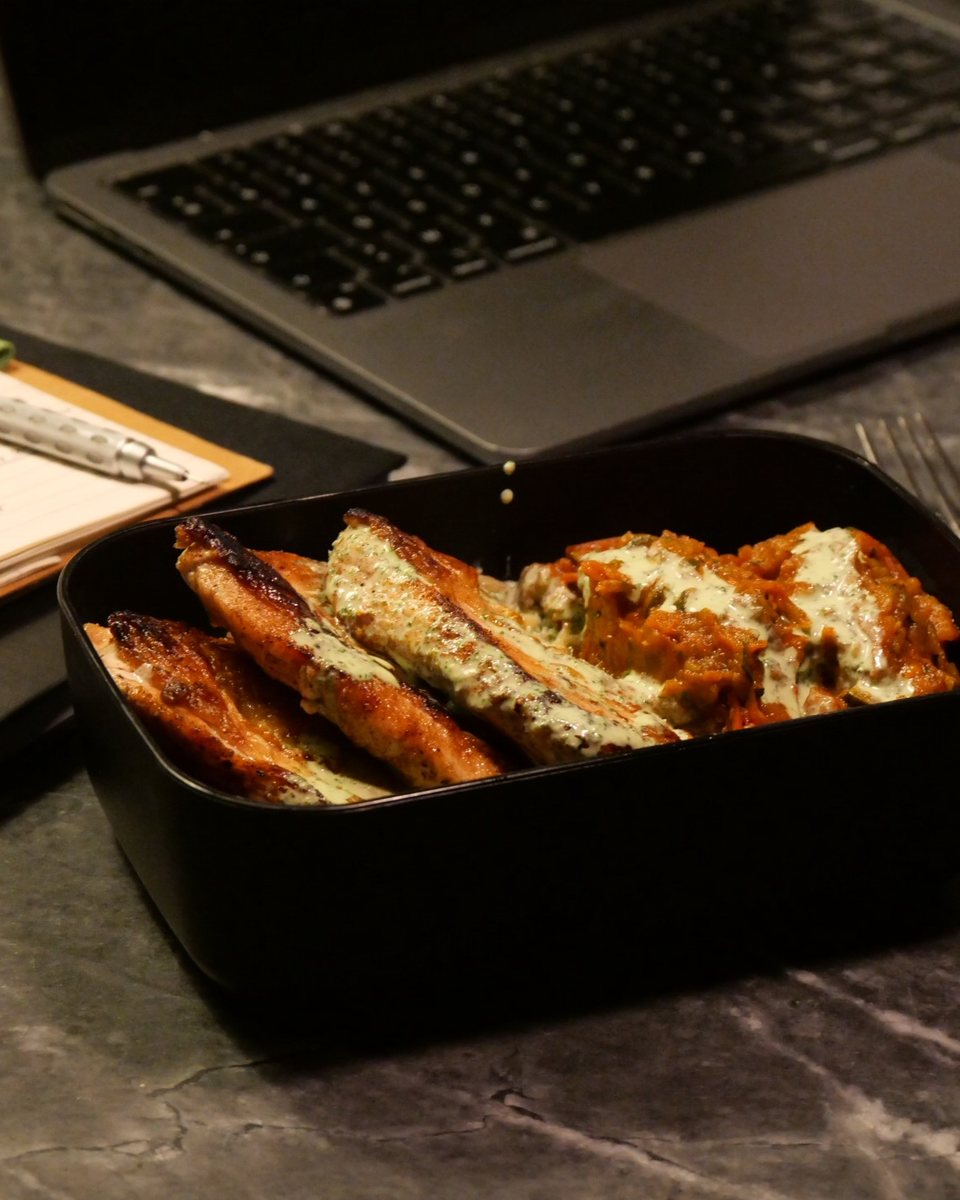
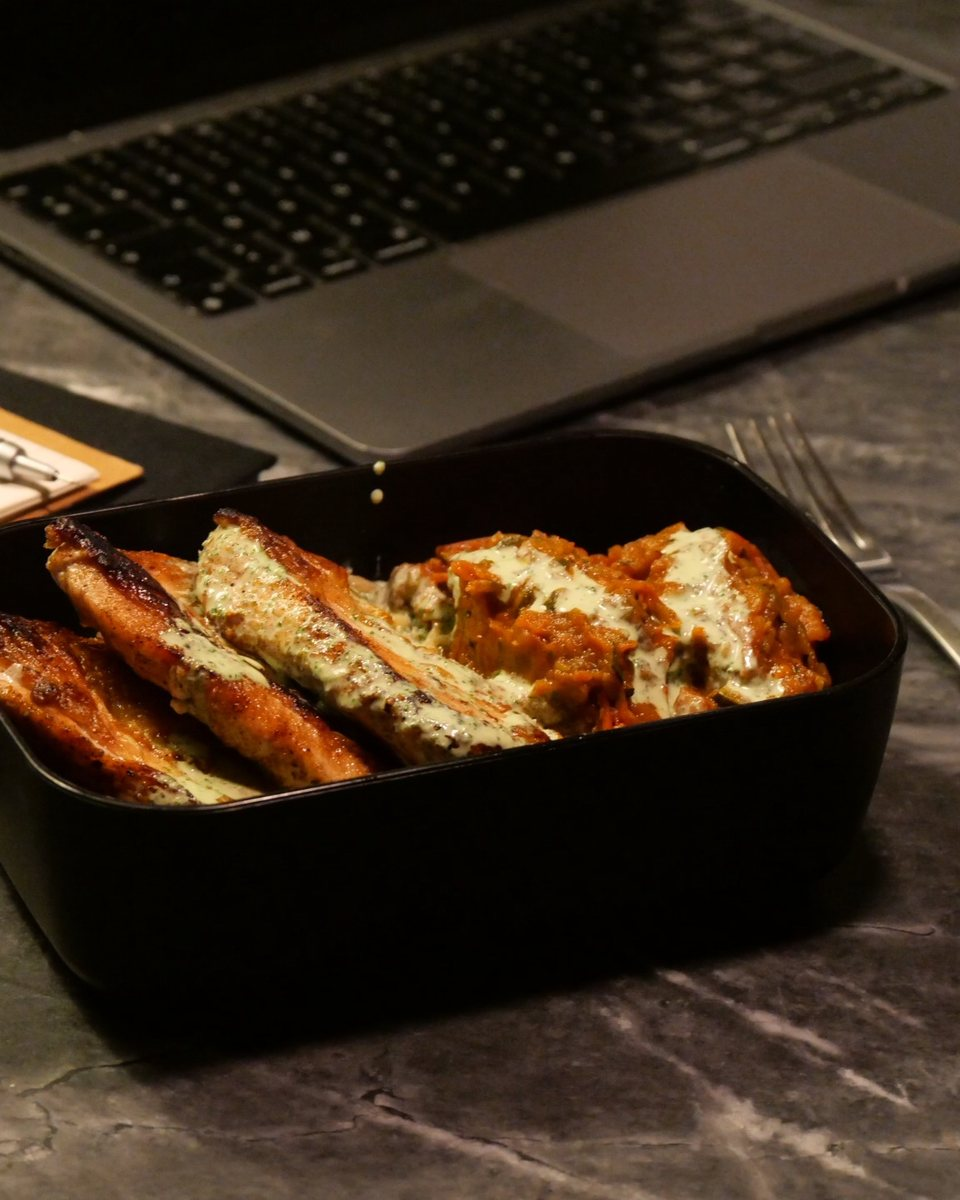
Photos throughout: table for two in hero, photos on experience cards, kitchen-to-table interlude; re-centre meal prep
Claude-Session: https://claude.ai/code/session_013d3kqRdAZ8b1P8H1gDvRSe

diff --git a/index.html b/index.html
@@ -63,6 +63,7 @@
         </video>
         <div class="hero-reel" id="heroReel" aria-hidden="true">
           <div class="reel-slide is-active" style="background-image:url('images/table-golden-hour.jpg')"></div>
+          <div class="reel-slide" style="background-image:url('images/table-for-two.jpg')"></div>
           <div class="reel-slide" style="background-image:url('images/table-dinner-party.jpg')"></div>
           <div class="reel-slide" style="background-image:url('images/table-carbonara.jpg')"></div>
           <div class="reel-slide" style="background-image:url('images/table-steak-night.jpg')"></div>
@@ -104,6 +105,7 @@
 
         <div class="exp-grid">
           <article class="exp-card reveal">
+            <div class="exp-img" role="img" aria-label="" style="background-image:url('images/table-for-two.jpg')"></div>
             <div class="exp-body">
               <span class="exp-num">01</span>
               <h3>Private Dinners</h3>
@@ -113,6 +115,7 @@
           </article>
 
           <article class="exp-card reveal delay-1">
+            <div class="exp-img" role="img" aria-label="" style="background-image:url('images/table-dinner-party.jpg')"></div>
             <div class="exp-body">
               <span class="exp-num">02</span>
               <h3>Celebrations</h3>
@@ -122,6 +125,7 @@
           </article>
 
           <article class="exp-card reveal delay-2">
+            <div class="exp-img" role="img" aria-label="" style="background-image:url('images/prep-meal-salmon.jpg')"></div>
             <div class="exp-body">
               <span class="exp-num">03</span>
               <h3>Weekly Meal Prep</h3>
@@ -146,6 +150,20 @@
           <li class="reveal delay-2"><span class="process-n">03</span><h3>I shop &amp; cook</h3><p>Fresh ingredients, prepared in your kitchen on the day.</p></li>
           <li class="reveal delay-3"><span class="process-n">04</span><h3>You enjoy</h3><p>Plated, served and cleaned up. You just host.</p></li>
         </ol>
+      </div>
+    </section>
+
+    <!-- ── INTERLUDE: from the kitchen to the table ── -->
+    <section class="interlude">
+      <div class="container interlude-grid">
+        <figure class="interlude-item reveal img-reveal">
+          <img src="images/prep-kitchen-salmon.jpg" alt="Salmon fillets and new potatoes being prepared on wooden boards in a home kitchen" loading="lazy" />
+          <figcaption>Prepared in your kitchen</figcaption>
+        </figure>
+        <figure class="interlude-item interlude-item--low reveal delay-1 img-reveal">
+          <img src="images/table-for-two.jpg" alt="Dinner for two by candlelight: seared salmon, roasted potatoes and red wine" loading="lazy" />
+          <figcaption>Served at your table</figcaption>
+        </figure>
       </div>
     </section>
 

diff --git a/styles.css b/styles.css
@@ -669,3 +669,15 @@ a, button { -webkit-tap-highlight-color: transparent; }
 /* Photos: a fine gold hairline border */
 .work-item img { border: 1px solid rgba(176, 141, 87, 0.45); }
 .chef-photo { border: 1px solid rgba(176, 141, 87, 0.45); }
+
+/* ══════════════════════════════════════
+   INTERLUDE — kitchen to table, two offset photos
+══════════════════════════════════════ */
+.interlude { padding: 0 0 clamp(5rem, 10vw, 8rem); }
+.interlude-grid { display: grid; grid-template-columns: minmax(0, 1fr) minmax(0, 1fr); gap: clamp(1.25rem, 4vw, 3rem); align-items: start; }
+.interlude-item--low { margin-top: clamp(3rem, 9vw, 8rem); }
+.interlude-item img { width: 100%; aspect-ratio: 4 / 5; object-fit: cover; border-radius: 18px; border: 1px solid rgba(176, 141, 87, 0.45); }
+.interlude-item figcaption { margin-top: 1rem; font-family: var(--serif); font-style: italic; font-size: 1.3rem; color: var(--ink-soft); }
+
+/* Experience card photos */
+.exp-img { border-bottom: 1px solid var(--line); }
